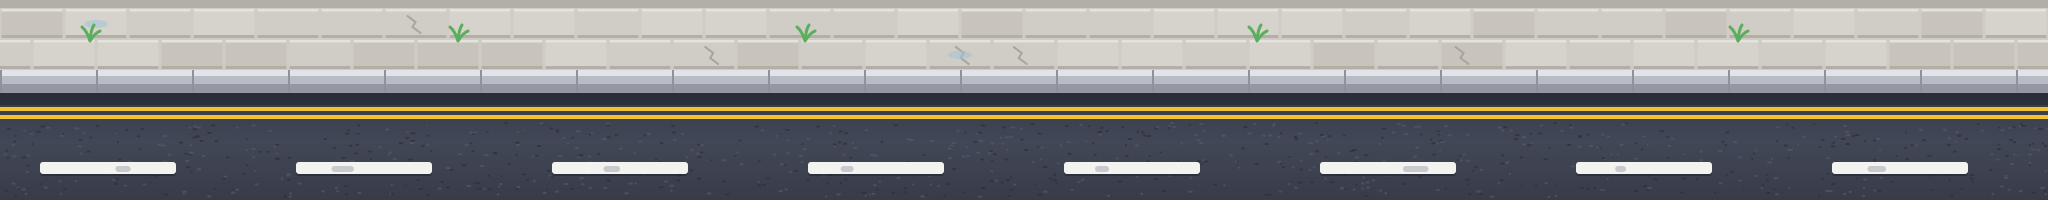
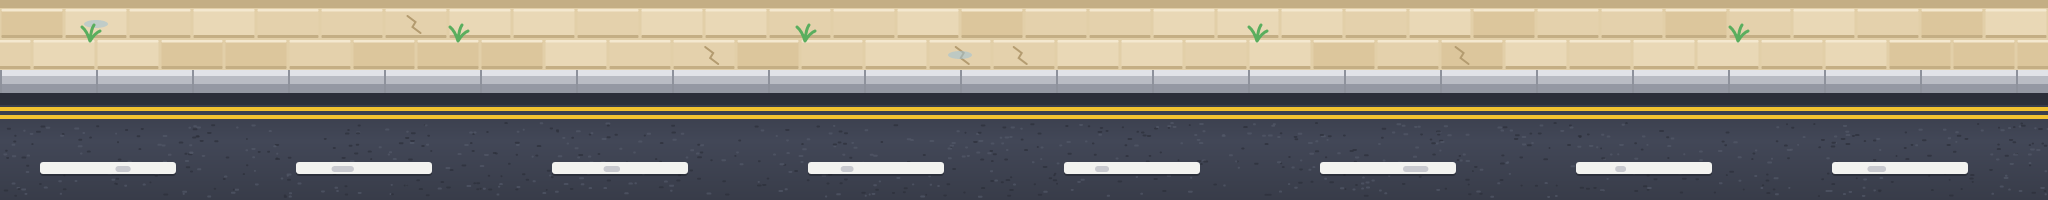
Make what the cat plays with stand out from the scenery, the Mario way
A haze in each world's own colour veils the sky, clouds and buildings, so
the scenery sits back like a painting. The cat, the family, the bosses,
obstacles, ledges, pickups and paw blocks get a bold dark outline, drawn
by the game, and obstacles get a soft shadow on the road. The city's
pavement is warm buff York stone, so the grey cat is never on its own
colour. Without WebGL the outline is simply left out.

Changed region(s): [[0.0, 0.0, 1.0, 0.36]]

diff --git a/src/entities/ParallaxBackground.js b/src/entities/ParallaxBackground.js
@@ -7,7 +7,10 @@ const EDGE = 2; // a pixel or two past each side, so no gap shows at the edges
 // Skips the art's top row. Otherwise it blends with the bottom row when the textures repeat, which
 // draws a faint line across the sky along the top of each layer.
 const TOP_ROW_SKIP = 1;
+const HAZE_DEPTH = 1.22; // over the sky and the buildings, behind the street and everything on it
 const SUNBEAM_DEPTH = 1.25; // over the near buildings, behind the street
+const STREET_TOP = 520; // where the scenery ends and the street begins, in the layers' art
+const HAZE_ABOVE = 2000; // reaches well above the view, for when the camera rises
 const SUNBEAM_ALPHA = { from: 0.18, to: 0.32, ms: 3200 };
 const AMBIENCE_DEPTH = 1.26;
 // Specks of dust caught in the light, and leaves blown off the trees. They float on the screen,
@@ -96,6 +99,10 @@ export class ParallaxBackground {
         .setTint(light)
         .setTilePosition(0, TOP_ROW_SKIP),
     }));
+    if (theme.haze) {
+      this.haze = scene.add.rectangle(0, 0, 10, 10, theme.haze.color, theme.haze.alpha)
+        .setOrigin(0).setScrollFactor(0, 1).setDepth(HAZE_DEPTH);
+    }
     if (theme.sunbeams) {
       this.sunbeams = scene.add.image(0, 0, theme.sunbeams).setOrigin(0).setScrollFactor(0)
         .setDepth(SUNBEAM_DEPTH).setBlendMode(Phaser.BlendModes.ADD).setAlpha(SUNBEAM_ALPHA.from);
@@ -130,6 +137,8 @@ export class ParallaxBackground {
       sprite.tilePositionX = cameraX * factor + seconds * drift - EDGE;
     }
     this.sunbeams?.setPosition(VIEW.LEFT_OFFSET, VIEW.TOP).setDisplaySize(VIEW.WIDTH, VIEW.HEIGHT);
+    // The haze stops where the street starts, so the road and everything on it keep their colour.
+    this.haze?.setPosition(VIEW.LEFT_OFFSET, VIEW.TOP - rise - HAZE_ABOVE).setSize(VIEW.WIDTH, STREET_TOP - (VIEW.TOP - rise - HAZE_ABOVE));
     // The air fills whatever the window shows.
     for (const emitter of this.ambience) {
       const { x, y } = emitter.ambienceArea;

diff --git a/src/data/themes.js b/src/data/themes.js
@@ -21,6 +21,8 @@ const BRICK_WALLS = { stoneWall: 'brickWall', tallStoneWall: 'tallBrickWall', ga
 // swap:  replaces obstacle types from the shared level sections with this world's own.
 // ledges: replaces ledge styles the same way.
 // sunbeams: an optional image of light over the buildings, behind the street.
+// haze:     { color, alpha }, a veil over the scenery behind the street, so it sits back like a
+//           painting and what the cat plays with stands out in front of it
 // ambience: optional things drifting through the air: 'motes' (specks in the sunlight), 'leaves',
 //           'petals', 'fluff' (dandelion seeds) or 'fireflies'.
 export const THEMES = {
@@ -28,6 +30,7 @@ export const THEMES = {
     backdrop: 'city-sky',
     layers: layers('city'),
     sunbeams: 'city-sunbeams',
+    haze: { color: 0xe6f2fa, alpha: 0.3 },
     ambience: ['motes', 'leaves'],
     gate: 'gate',
     swap: BRICK_WALLS,
@@ -36,6 +39,7 @@ export const THEMES = {
     backdrop: 'park-sky',
     layers: layers('park', 'city-clouds'),
     sunbeams: 'park-sunbeams',
+    haze: { color: 0xe8f5ea, alpha: 0.3 },
     ambience: ['motes', 'petals'],
     gate: 'park-gate',
     swap: {
@@ -58,6 +62,7 @@ export const THEMES = {
     backdrop: 'farm-sky',
     layers: layers('farm', 'city-clouds'),
     sunbeams: 'farm-sunbeams',
+    haze: { color: 0xfff3d6, alpha: 0.3 },
     ambience: ['motes', 'fluff'],
     gate: 'farm-gate',
     swap: {
@@ -85,6 +90,7 @@ export const THEMES = {
     backdrop: 'vet-sky',
     layers: layers('vet'),
     sunbeams: 'vet-sunbeams',
+    haze: { color: 0x6a4a86, alpha: 0.22 },
     ambience: ['fireflies'],
     gate: 'vet-gate',
     swap: BRICK_WALLS,

diff --git a/src/entities/ObstacleField.js b/src/entities/ObstacleField.js
@@ -1,6 +1,7 @@
 import { GAME } from '../config/gameConfig.js';
 import { OBSTACLES } from '../data/obstacles.js';
 import { createMovingObstacle } from './MovingObstacle.js';
+import { outline } from '../ui/Outline.js';
 
 const PASSED_MARGIN = 90; // how far behind the cat an obstacle must be to count as avoided
 const LANDING_TOLERANCE = 8;
@@ -9,6 +10,7 @@ const ZONE_BELOW_FEET = 12; // zones lie on the road, a little in front of where
 const DITCH_LIP = 52; // the ditch's art starts this far above where the cat runs: at the kerb, across the road
 const FALLEN_IN = 10; // feet this far below the road mean the cat has fallen into a ditch
 const PIECES = 6;
+const SHADOW = { drop: 6, widthShare: 1.15, height: 16, color: 0x1d1a44, alpha: 0.3 };
 const PIECE_MS = 650;
 const STONE_TINT = 0x9a9fa7;
 
@@ -49,6 +51,9 @@ export class ObstacleField {
   placeStatic(type, at, group) {
     const item = group.create(at, GAME.GROUND_Y + GAME.GROUND_OVERLAP, type.texture);
     item.setOrigin(0.5, 1).setDepth(4);
+    outline(item);
+    // A soft shadow on the road, so it sits on the ground rather than floating over it.
+    item.shadow = this.scene.add.ellipse(at, GAME.GROUND_Y + SHADOW.drop, type.hitbox.w * SHADOW.widthShare, SHADOW.height, SHADOW.color, SHADOW.alpha).setDepth(3.9);
     const { x, y, w, h } = type.hitbox;
     item.refreshBody();
     item.body.setSize(w, h, false);
@@ -219,6 +224,7 @@ export class ObstacleField {
   // Sends the boxes flying, and leaves nothing in the way.
   smash(item) {
     item.broken = true;
+    item.shadow?.destroy();
     item.body.enable = false;
     item.setVisible(false);
     for (let i = 0; i < PIECES; i++) {

diff --git a/src/entities/Boss.js b/src/entities/Boss.js
@@ -2,6 +2,7 @@ import Phaser from 'phaser';
 import { GAME } from '../config/gameConfig.js';
 import { CHARACTERS, animKey, frameKey } from '../data/characters.js';
 import { arcHeight } from '../systems/obstacleMotion.js';
+import { outline } from '../ui/Outline.js';
 
 const BELOW_FEET = 12; // how much room the frames leave under his feet. See tools/cut-boss.mjs
 const STANDING = { w: 110, h: 150 }; // lower than his art, so one jump can land on his head
@@ -15,6 +16,7 @@ export class Boss extends Phaser.GameObjects.Sprite {
     const { character } = definition;
     super(scene, x, GAME.GROUND_Y, frameKey(character, CHARACTERS[character].anims.idle.file, 1));
     scene.add.existing(this);
+    outline(this);
     this.character = character;
     this.definition = definition;
     this.director = director;

diff --git a/src/entities/MovingObstacle.js b/src/entities/MovingObstacle.js
@@ -2,6 +2,7 @@ import Phaser from 'phaser';
 import { GAME, VIEW } from '../config/gameConfig.js';
 import { animKey, frameKey, CHARACTERS } from '../data/characters.js';
 import { activationCatX, arcHeight, crossingProgress, pulseStrength, shouldStartLeap, startX, swingHeight, wrapToCycle } from '../systems/obstacleMotion.js';
+import { outline } from '../ui/Outline.js';
 
 const FEET_ORIGIN_Y = 0.97;
 const HIDEOUT_BACK = 80; // a hiding place stands this far back from where the cat runs, on the pavement
@@ -28,6 +29,7 @@ class MovingObstacle extends Phaser.Physics.Arcade.Sprite {
   constructor(scene, x, y, texture, type) {
     super(scene, x, y, texture);
     scene.add.existing(this);
+    outline(this);
     scene.physics.add.existing(this);
 
     this.motion = type.motion;

diff --git a/src/entities/BomberBoss.js b/src/entities/BomberBoss.js
@@ -2,6 +2,7 @@ import Phaser from 'phaser';
 import { BOSS, GAME } from '../config/gameConfig.js';
 import { CHARACTERS, animKey, frameKey } from '../data/characters.js';
 import { arcHeight } from '../systems/obstacleMotion.js';
+import { outline } from '../ui/Outline.js';
 
 // Where his hand lets go of a bomb, from the middle of his feet, in screen pixels.
 const HAND_AHEAD = 40;
@@ -25,6 +26,7 @@ export class BomberBoss extends Phaser.GameObjects.Sprite {
     const { character } = definition;
     super(scene, x, GAME.GROUND_Y, frameKey(character, CHARACTERS[character].anims.idle.file, 1));
     scene.add.existing(this);
+    outline(this);
     this.character = character;
     this.belowFeet = CHARACTERS[character].belowFeet;
     this.definition = definition;

diff --git a/src/entities/GunnerBoss.js b/src/entities/GunnerBoss.js
@@ -2,6 +2,7 @@ import Phaser from 'phaser';
 import { BOSS, GAME } from '../config/gameConfig.js';
 import { CHARACTERS, animKey, frameKey } from '../data/characters.js';
 import { arcHeight } from '../systems/obstacleMotion.js';
+import { outline } from '../ui/Outline.js';
 
 // Where his gun's barrel ends, from the middle of his feet, in screen pixels.
 const MUZZLE_AHEAD = 89;
@@ -28,6 +29,7 @@ export class GunnerBoss extends Phaser.GameObjects.Sprite {
     const { character } = definition;
     super(scene, x, GAME.GROUND_Y, frameKey(character, CHARACTERS[character].anims.idle.file, 1));
     scene.add.existing(this);
+    outline(this);
     this.character = character;
     this.belowFeet = CHARACTERS[character].belowFeet;
     this.definition = definition;

diff --git a/src/entities/Cat.js b/src/entities/Cat.js
@@ -2,6 +2,7 @@ import Phaser from 'phaser';
 import { BIG_LAND, FREE_MOVE, GAME, MOVEMENT } from '../config/gameConfig.js';
 import { CHARACTERS, animKey, frameKey } from '../data/characters.js';
 import { SpeedController } from '../systems/SpeedController.js';
+import { outline } from '../ui/Outline.js';
 
 const MANIFEST = CHARACTERS.cat;
 // Momentum 0 is a standing start, and 1 is top speed. A hit drops it to this, which gives HIT_SHARE.
@@ -13,6 +14,7 @@ export class Cat extends Phaser.Physics.Arcade.Sprite {
   constructor(scene, x, topSpeed) {
     super(scene, x, GAME.GROUND_Y - 120, frameKey('cat', 'idle', 1));
     scene.add.existing(this);
+    outline(this);
     scene.physics.add.existing(this);
 
     this.setScale(MANIFEST.scale).setDepth(6);

diff --git a/src/ui/Outline.js b/src/ui/Outline.js
@@ -1,0 +1,18 @@
+// A dark outline around what the cat plays with, so it stands out in front of the scenery, as in
+// classic platformers. It's drawn by the game, so no art needs changing. Browsers drawing without
+// WebGL have no effects, and simply go without it.
+const OUTLINE = {
+  color: 0x1e2a4a,
+  strength: 8, // how dark and solid the edge is
+  distance: 3, // how far it reaches out from the art, in pixels
+  quality: 0.2,
+  padding: 6, // room around the art for the outline to show
+};
+
+export function outline(object) {
+  const fx = object?.preFX;
+  if (!fx) return object;
+  fx.setPadding(OUTLINE.padding);
+  fx.addGlow(OUTLINE.color, OUTLINE.strength, 0, false, OUTLINE.quality, OUTLINE.distance);
+  return object;
+}

diff --git a/src/entities/PawBlocks.js b/src/entities/PawBlocks.js
@@ -1,5 +1,6 @@
 import { GAME } from '../config/gameConfig.js';
 import { PAW_BLOCK } from '../data/pickups.js';
+import { outline } from '../ui/Outline.js';
 
 const BUMP = { height: 14, ms: 90 };
 const COIN = { rise: 90, spread: 34, ms: 420, scale: 0.6 };
@@ -17,6 +18,7 @@ export class PawBlocks {
     this.items = all.filter(({ at }) => at > startX).map(({ at, reward, count }) => {
       const item = this.group.create(at, GAME.GROUND_Y - PAW_BLOCK.height, 'paw-block');
       item.setOrigin(0.5, 1).setDepth(5);
+      outline(item);
       item.refreshBody();
       item.body.setSize(PAW_BLOCK.size, PAW_BLOCK.size);
       item.reward = reward;

diff --git a/src/entities/Platforms.js b/src/entities/Platforms.js
@@ -1,4 +1,5 @@
 import { COLLAPSE, GAME } from '../config/gameConfig.js';
+import { outline } from '../ui/Outline.js';
 
 const THICKNESS = 34;
 const LANDING_TOLERANCE = 10;
@@ -31,6 +32,7 @@ export class Platforms {
     const top = GAME.GROUND_Y - height;
     const item = scene.add.tileSprite(at + width / 2, top + THICKNESS / 2, width, THICKNESS, TEXTURES[style]);
     item.setDepth(4);
+    outline(item);
     // A building's roof needs none, because its wall is right under it.
     if (!BUILDING_WALLS[style]) {
       item.shadow = scene.add.rectangle(item.x, top + THICKNESS + SHADOW.gap, width - 12, SHADOW.height, SHADOW.color, SHADOW.alpha)

diff --git a/src/entities/Chaser.js b/src/entities/Chaser.js
@@ -1,6 +1,7 @@
 import Phaser from 'phaser';
 import { GAME } from '../config/gameConfig.js';
 import { CHARACTERS, animKey, frameKey } from '../data/characters.js';
+import { outline } from '../ui/Outline.js';
 
 const HOP_HEIGHT = 120;
 const HOP_MS = 280;
@@ -20,6 +21,7 @@ export class Chaser extends Phaser.GameObjects.Sprite {
     const { file } = CHARACTERS[character].anims.idle;
     super(scene, x, GAME.GROUND_Y, frameKey(character, file, 1));
     scene.add.existing(this);
+    outline(this);
     this.setDepth(7);
     this.hopping = false;
     this.waddleMs = 0;
